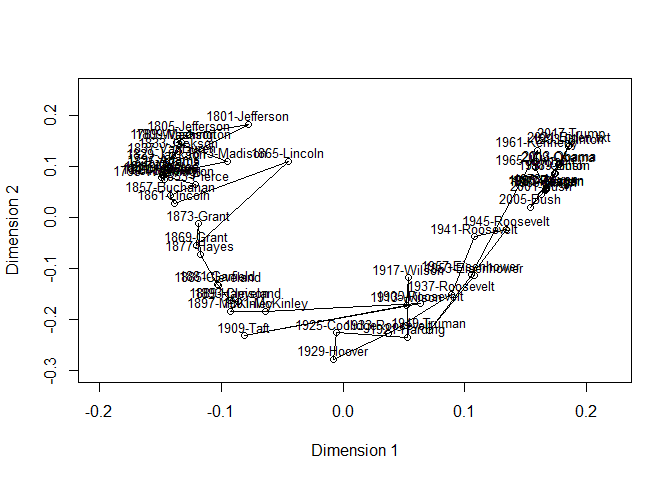
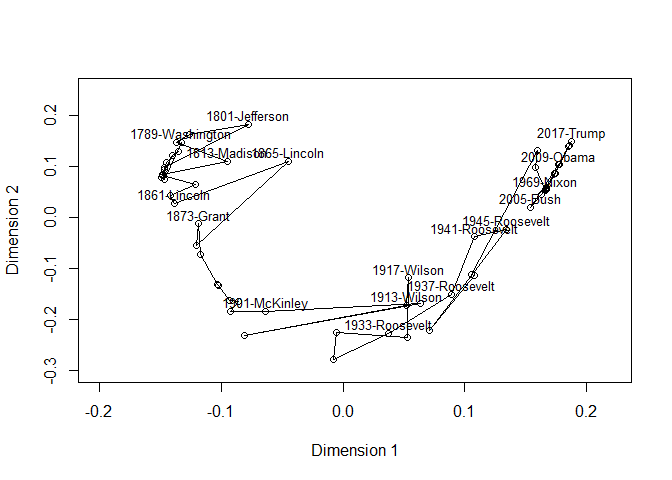
slightly nicer readme

diff --git a/README.md b/README.md
@@ -27,15 +27,7 @@ remotes::install_github("chroetz/poisrrr")
 Create a Term-Document-Matrix form quanteda’s inaugural address corpus.
 
 ``` r
-library(tidyverse)
-#> -- Attaching packages --------------------------------------- tidyverse 1.3.1 --
-#> v ggplot2 3.3.5     v purrr   0.3.4
-#> v tibble  3.1.3     v dplyr   1.0.7
-#> v tidyr   1.1.3     v stringr 1.4.0
-#> v readr   2.0.0     v forcats 0.5.1
-#> -- Conflicts ------------------------------------------ tidyverse_conflicts() --
-#> x dplyr::filter() masks stats::filter()
-#> x dplyr::lag()    masks stats::lag()
+library(magrittr)
 quanteda::data_corpus_inaugural %>% 
   quanteda::tokens(remove_punct = TRUE, remove_symbols = TRUE, remove_numbers = TRUE) %>% 
   quanteda::dfm(verbose = FALSE) %>% 
@@ -45,8 +37,8 @@ quanteda::data_corpus_inaugural %>%
 tdm <- tdm[rowSums(tdm) > 5, ] # remove rare words
 ```
 
-Apply the method in for Dimension 2 and plot the resulting plane of
-documents.
+Apply the method for *K* = 2 dimensions and plot the resulting plane
+with document positions.
 
 ``` r
 library(poisrrr)
@@ -57,7 +49,9 @@ v <- lst$v
 plot(NA, xlim=c(-0.2, 0.22), ylim=c(-0.3, 0.25), xlab="Dimension 1", ylab="Dimension 2")
 points(v)
 lines(v)
-text(v, labels=rownames(v), cex=0.8, pos=3, offset=0.2)
+labels <- rownames(v)
+labels[-c(1,4,7,19,20,22,29,32,33,37,38,39,40,46,55,56,58)] <- NA
+text(v, labels=labels, cex=0.8, pos=3, offset=0.2)
 ```
 
 <img src="man/figures/README-unnamed-chunk-3-1.png" width="100%" />
